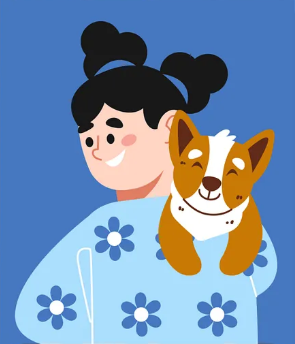
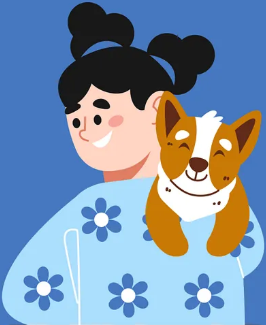
update welcome page

Changed region(s): [[0.0, 0.0, 0.9925, 1.0], [0.391, 0.8308, 0.5714, 0.9846]]

diff --git a/lib/pages/welcome.dart b/lib/pages/welcome.dart
@@ -12,12 +12,13 @@ class WelcomePage extends StatelessWidget {
       body: Column(
         mainAxisAlignment: MainAxisAlignment.start,
         children: [
+          const SizedBox(height: 200),
           Expanded(
-            // flex: 2,
+            // flex: 1,
             child: Center(
               child: Container(
-                height: double.infinity,
-                width: 480,
+                // height: 700,
+                // width: 500,
                 decoration: const BoxDecoration(
                   image: DecorationImage(
                     image: AssetImage("assets/images/welcome.png"),
@@ -28,7 +29,7 @@ class WelcomePage extends StatelessWidget {
             ),
           ),
           Expanded(
-            // flex: 1,
+            flex: 1,
             child: Container(
               padding: const EdgeInsets.symmetric(horizontal: 30, vertical: 20),
               height: 400,
